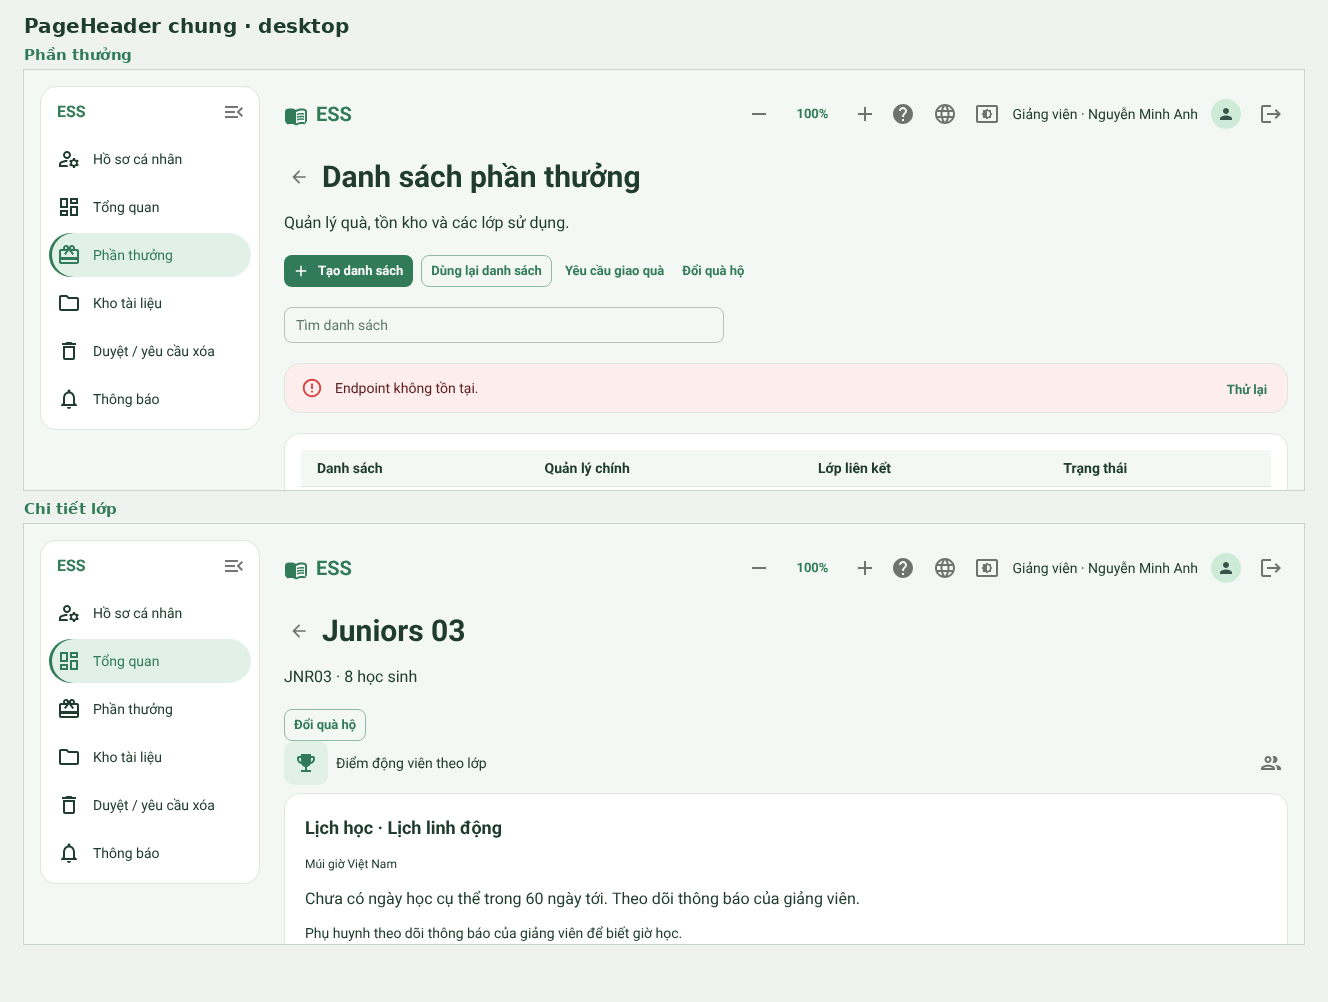
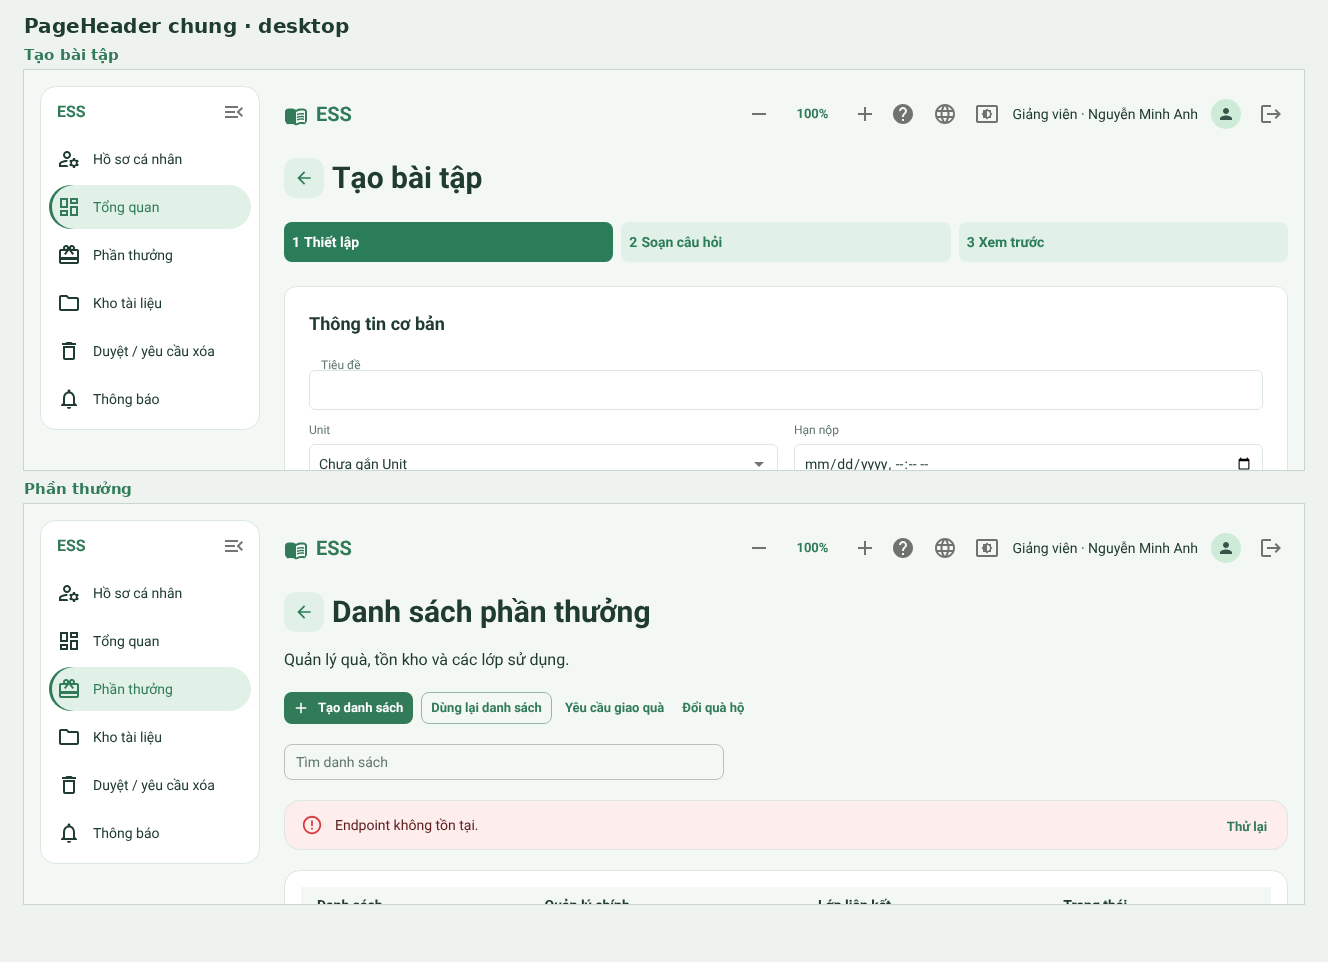
Assignment titles in the common header; tinted Back button
Assignment editor and detail views pass their title to PageHeader;
other assignment states keep a title-less header. BackAction uses the
tinted 40px square from the assignment design on every page.

diff --git a/src/features/assignments/page.tsx b/src/features/assignments/page.tsx
@@ -1,4 +1,5 @@
 "use client";
+import { PageHeader } from "@/shared/ui";
 import dynamic from "next/dynamic";
 import { useState } from "react";
 import Link from "next/link";
@@ -50,17 +51,34 @@ function AssignmentContent() {
         ? `/assignment/?${new URLSearchParams({ assignmentId: id, classId })}`
         : `/class/thread/?classId=${encodeURIComponent(classId)}`,
     );
-  if (!classId) return <Feedback empty="Mở bài tập từ lớp học." />;
+  // Editor and detail views title the common PageHeader themselves; every
+  // other state keeps Back in the same place with a title-less header.
+  const back = <PageHeader />;
+  if (!classId)
+    return (
+      <>
+        {back}
+        <Feedback empty="Mở bài tập từ lớp học." />
+      </>
+    );
   if (access.loading || access.error)
     return (
-      <Feedback
-        loading={access.loading}
-        error={access.error}
-        retry={() => void access.retry()}
-      />
+      <>
+        {back}
+        <Feedback
+          loading={access.loading}
+          error={access.error}
+          retry={() => void access.retry()}
+        />
+      </>
     );
   if (!access.viewLearning)
-    return <Feedback empty="Bạn không có quyền xem lớp này." />;
+    return (
+      <>
+        {back}
+        <Feedback empty="Bạn không có quyền xem lớp này." />
+      </>
+    );
   if (mode === "create")
     return access.editLearning ? (
       <Editor
@@ -69,11 +87,21 @@ function AssignmentContent() {
         sessionId={params.get("sessionId") ?? undefined}
       />
     ) : (
-      <Feedback empty="Chỉ giảng viên đang phụ trách được tạo bài tập." />
+      <>
+        {back}
+        <Feedback empty="Chỉ giảng viên đang phụ trách được tạo bài tập." />
+      </>
     );
-  if (!id) return <Feedback empty="Thiếu bài tập." />;
+  if (!id)
+    return (
+      <>
+        {back}
+        <Feedback empty="Thiếu bài tập." />
+      </>
+    );
   return (
     <Stack spacing={2}>
+      {!query.data && back}
       <Feedback
         loading={query.isLoading}
         error={query.error}
@@ -90,34 +118,20 @@ function AssignmentContent() {
             cancel={cancel}
           />
         ) : mode === "grade" && submissionId ? (
-          <SubmissionGrading
-            id={id}
-            submissionId={submissionId}
-            editable={access.editLearning}
-          />
+          <>
+            {back}
+            <SubmissionGrading
+              id={id}
+              submissionId={submissionId}
+              editable={access.editLearning}
+            />
+          </>
         ) : (
           <>
-            <Stack
-              direction="row"
-              sx={{
-                justifyContent: "space-between",
-                alignItems: "flex-start",
-                gap: 1,
-              }}
-            >
-              <Typography
-                component="h1"
-                variant="h4"
-                sx={{
-                  fontWeight: 700,
-                  flex: 1,
-                  minWidth: 0,
-                  overflowWrap: "anywhere",
-                }}
-              >
-                {query.data.title}
-              </Typography>
-              {access.editLearning &&
+            <PageHeader
+              title={query.data.title}
+              actions={
+                access.editLearning &&
                 (query.data.canEditSchema ?? query.data.canEdit) && (
                   <Tooltip title="Chỉnh sửa bài tập">
                     <IconButton
@@ -129,8 +143,9 @@ function AssignmentContent() {
                       <Edit fontSize="small" />
                     </IconButton>
                   </Tooltip>
-                )}
-            </Stack>
+                )
+              }
+            />
             <Typography component="div">
               <RichContent value={query.data.instructions} />
             </Typography>

diff --git a/src/features/assignments/editor.tsx b/src/features/assignments/editor.tsx
@@ -1,4 +1,5 @@
 "use client";
+import { PageHeader } from "@/shared/ui";
 import { RichInput, type RichInputHandle } from "./rich-input";
 import { useRef, useState } from "react";
 import { useClassQuery } from "@/api/api";
@@ -321,28 +322,30 @@ export function AssignmentEditor({
   return (
     <AssignmentSurface>
       <Stack spacing={{ xs: 2, md: 3 }} sx={{ minWidth: 0 }}>
-        <Typography component="h1" variant="h4">
-          {step === 0 ? (
-            "Tạo bài tập"
-          ) : step === 2 ? (
-            draft.title || "Xem trước"
-          ) : (
-            <>
-              <Box
-                component="span"
-                sx={{ display: { xs: "none", md: "inline" } }}
-              >
-                {draft.title || "Soạn câu hỏi"}
-              </Box>
-              <Box
-                component="span"
-                sx={{ display: { xs: "inline", md: "none" } }}
-              >
-                Soạn câu hỏi
-              </Box>
-            </>
-          )}
-        </Typography>
+        <PageHeader
+          title={
+            step === 0 ? (
+              "Tạo bài tập"
+            ) : step === 2 ? (
+              draft.title || "Xem trước"
+            ) : (
+              <>
+                <Box
+                  component="span"
+                  sx={{ display: { xs: "none", md: "inline" } }}
+                >
+                  {draft.title || "Soạn câu hỏi"}
+                </Box>
+                <Box
+                  component="span"
+                  sx={{ display: { xs: "inline", md: "none" } }}
+                >
+                  Soạn câu hỏi
+                </Box>
+              </>
+            )
+          }
+        />
         <Stack direction="row" spacing={{ xs: 0.75, md: 1 }}>
           {["Thiết lập", "Soạn câu hỏi", "Xem trước"].map((label, i) => (
             <Button

diff --git a/src/shared/back-action.tsx b/src/shared/back-action.tsx
@@ -3,7 +3,22 @@ import Link from "next/link";
 import ArrowBack from "@mui/icons-material/ArrowBack";
 import IconButton from "@mui/material/IconButton";
 import Tooltip from "@mui/material/Tooltip";
+import type { Theme } from "@mui/material/styles";
 import { usePageBack } from "./page-navigation";
+/** Tinted square used for Back everywhere (matches the assignment design). */
+const backButtonSx = (theme: Theme) => {
+  const dark = theme.palette.mode === "dark";
+  return {
+    width: 40,
+    height: 40,
+    minWidth: 40,
+    flexShrink: 0,
+    borderRadius: "12px",
+    color: dark ? "#9dd5b6" : "#2b7c59",
+    bgcolor: dark ? "#284737" : "#e2f1e7",
+    "&:hover": { bgcolor: dark ? "#31553f" : "#d3eadb" },
+  };
+};
 export function BackAction({
   fallback = "/home/",
   label = "Quay lại",
@@ -19,6 +34,7 @@ export function BackAction({
         component={Link}
         href={fallback}
         aria-label={label}
+        sx={backButtonSx}
         onClick={(e) => {
           if (!e.metaKey && !e.ctrlKey && !e.shiftKey && !e.altKey) {
             e.preventDefault();

diff --git a/src/app/assignment/page.tsx b/src/app/assignment/page.tsx
@@ -1,4 +1,3 @@
-import { PageHeader } from "@/shared/ui";
 import { ProtectedPage } from "@/shared/protected-page";
 import { AssignmentPage } from "@/features/assignments/page";
 import { AssignmentSurface } from "@/features/assignments/surface";
@@ -6,7 +5,6 @@ export default function Page() {
   return (
     <ProtectedPage>
       <AssignmentSurface>
-        <PageHeader />
         <AssignmentPage />
       </AssignmentSurface>
     </ProtectedPage>
